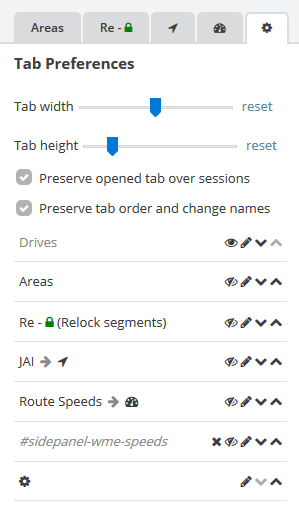
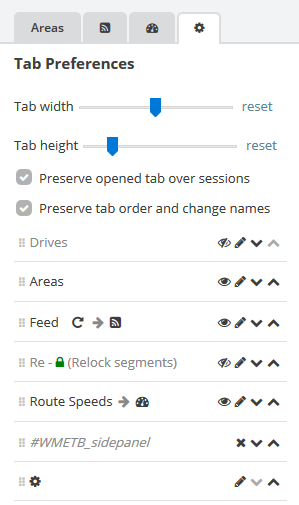
Version 1.1: The list with tab names can now be dragged around Quick tooltips for tabs with replaced names Bug fix concerning the order of the last tabs with some missing tabs

diff --git a/WME_Tab_Preferences.user.js b/WME_Tab_Preferences.user.js
@@ -7,14 +7,14 @@
 // @include     https://editor-beta.waze.com/*
 // @exclude     https://www.waze.com/user/*editor/*
[1 lines of base64/hex data omitted]
-// @version     1.0.5
+// @version     1.1
 // @grant       none
 // ==/UserScript==
 (function() {
   var tabReopened = false, // have we reopened the tab from last time?
       timesRan = 0, // variable for sanity check
       tabsSecured = -1, // Up until which index have we fully rearranged the tabs?
-      versions = ['0.1', '0.2', '1.0', '1.0.1', '1.0.2', '1.0.3', '1.0.4', '1.0.5'],
+      versions = ['0.1', '0.2', '1.0', '1.0.1', '1.0.2', '1.0.3', '1.0.4', '1.0.5', '1.1'],
       Storage = (function() {
         var hashes = (localStorage.tabprefs_hidden ? localStorage.tabprefs_hidden.split(',') : []),
             tabConfigs = (localStorage.tabprefs_configs ? JSON.parse(localStorage.tabprefs_configs) : {});
@@ -42,6 +42,25 @@
           },
           getTabConfig: function(hash) {
             return tabConfigs[hash] || {};
+          },
+          exportConfig: function() {
+            return JSON.stringify({
+              reopenTab: localStorage.tabprefs_reopenTab,
+              tabprefs_tabwidth: localStorage.tabprefs_tabwidth,
+              tabprefs_tabheight: localStorage.tabprefs_tabheight,
+              tabprefs_preserveOrder: localStorage.tabprefs_preserveOrder,
+              tabprefs_hidden: localStorage.tabprefs_hidden,
+              tabprefs_configs: localStorage.tabprefs_configs
+            });
+          },
+          importConfig: function(toImport) {
+            var config = JSON.parse(toImport);
+            var iterator = config.entries();
+            for (var entry of iterator) {
+              if (entry[0].startsWith('tabprefs_')) {
+                localStorage[entry[0]] = entry[1];
+              }
+            }
           }
         };
       })();
@@ -75,9 +94,11 @@
           reset: 'reset',
           preserve_tab: 'Preserve opened tab over sessions',
           preserve_order: 'Preserve tab order and change names',
-          remove_tab: 'Tab no longer found. Remove entry?',
+          remove_tab: 'Tab no longer available. Remove entry?',
           hide_tab: 'Change tab visibility',
-          edit_tab_name: 'Replace tab name',
+          move_up_tab: 'Move up',
+          move_down_tab: 'Move down',
+          edit_tab: 'Edit tab',
           change_icon: 'Change icon',
           set_icon: 'Set icon',
           reset_tab: 'Reset tab',
@@ -95,15 +116,29 @@
           v1_0_2: '- Fixed tab size reset buttons in Google Chrome',
           v1_0_3: '- Tab styling is applied with higher specificity, but plays nicer with other scripts as well',
           v1_0_4: '- Tab alignment issues with renamed tabs in Google Chrome fixed',
-          v1_0_5: '- Removed strict mode that was necessary for Google Chrome\n- Improved initalisation of script'
+          v1_0_5: '- Removed strict mode that was necessary for Google Chrome\n- Improved initalisation of script',
+          v1_1: '- The list with tab names can now be dragged around\n- Quick tooltips for tabs with replaced names\n- Bug fix concerning the order of the last tabs with some missing tabs'
         }
       },
       nl: {
         prefs: {
           title: 'Tabvoorkeuren',
+          tab_width: 'Tabbreedte',
+          tab_height: 'Tabhoogte',
+          reset: 'reset',
           preserve_tab: 'Geopende tab bijhouden tussen sessies',
           preserve_order: 'Volgorde van tabs bijhouden en namen veranderen',
-          remove_tab: 'Tab niet langer gevonden. Verwijderen?'
+          remove_tab: 'Tab niet langer beschikbaar. Verwijderen?',
+          hide_tab: 'Tabzichtbaarheid veranderen',
+          move_up_tab: 'Eerder zetten',
+          move_down_tab: 'Verder zetten',
+          edit_tab: 'Tab aanpassen',
+          change_icon: 'Icoon veranderen',
+          set_icon: 'Icoon instellen',
+          reset_tab: 'Tab resetten',
+          icon: 'Icoon',
+          icon_none: 'Niet ingesteld',
+          close: 'Sluiten'
         }
       }
     };
@@ -163,7 +198,6 @@
                 hash = anchor.hash;
             // Also start observing here for changes to tab selection
             selectionObserver.observe(node, { attributes: true, attributeFilter: ['class'] });
-            console.log('initTabListener', hash, node);
             if (anchor.title) {
               $(anchor).tooltip();
             }
@@ -233,8 +267,7 @@
     formGroup.appendChild(tabOrderPanel);
     $(tabOrderPanel).sortable({
       forcePlaceholderSize: true,
-      placeholderClass: 'result',
-      handle: '.handle'
+      placeholderClass: 'result'
     }).bind('sortupdate', function(e, ui) {
       var order = localStorage.tabprefs_preserveOrder.split(',');
       order.splice(ui.elementIndex, 0, order.splice(ui.oldElementIndex, 1)[0]);
@@ -314,8 +347,7 @@
     }
     var tab = document.querySelector('#user-tabs .nav-tabs li a[href$="'+localStorage.tabprefs_reopenTab+'"]');
     if (!tabReopened && tab) {
-      log("Tab to reopen found, reopening now");
-      var clickEvent = new MouseEvent("click", {
+      var clickEvent = new MouseEvent('click', {
         bubbles: true,
         cancelable: true,
         view: window
@@ -356,6 +388,7 @@
       var tabsMissing = 0;
       for (var i = tabsSecured+1; i < hashes.length; i++) {
         var tabAnchor = navTabs.querySelector('a[href$="'+hashes[i]+'"]');
+        
         if (!tabAnchor) {
           tabsMissing++;
           continue;
@@ -364,7 +397,7 @@
         if (tabIndex === i && tabsSecured === tabIndex-1) {
           tabsSecured++;
         }
-        if (tabAnchor && tabIndex !== i - tabsMissing && i < navTabs.children.length) {
+        if (tabAnchor && tabIndex !== i - tabsMissing && i - tabsMissing < navTabs.children.length) {
           navTabs.insertBefore(tabAnchor.parentNode, navTabs.children[i - tabsMissing]);
           if (tabsSecured === i-1) {
             tabsSecured++;
@@ -394,6 +427,11 @@
           for (var j = 0; j < anchor.childNodes.length; j++) { // Bleh, nodelist doesn't support for each
             children.push(anchor.childNodes[j]);
           }
+          anchor.originalTitle = anchor.title || anchor.dataset.originalTitle || anchor.parentNode.title || anchor.parentNode.dataset.originalTitle;
+          if (!anchor.title) {
+            anchor.title = anchor.textContent.trim();
+          }
+          $(anchor).tooltip();
           anchor.originalChildren = children;
         }
         if (config.icon) {
@@ -406,18 +444,13 @@
               log('Unsupported fontFamily found: ' + config.icon.fontFamily);
           }
           span.appendChild(document.createTextNode(String.fromCharCode(config.icon.charCode)));
-          console.log('renameTabs', anchor.title, anchor.hash);
-          if (!anchor.title) {
-            anchor.title = anchor.textContent.trim();
-          }
-          console.log('renameTabs #2', anchor.title, anchor.hash);
-          $(anchor).tooltip();
           while (anchor.firstChild) {
             anchor.removeChild(anchor.firstChild);
           }
           anchor.appendChild(span);
         }
       }
+      // Icon replacement has been removed
       if (!config.icon && anchor.originalChildren) {
         while (anchor.firstChild) {
           anchor.removeChild(anchor.firstChild);
@@ -426,6 +459,15 @@
           anchor.appendChild(node);
         });
         delete anchor.originalChildren;
+        if (anchor.originalTitle) {
+          anchor.title = anchor.originalTitle;
+          $(anchor).tooltip();
+        } else {
+          anchor.removeAttribute('title');
+          $(anchor).tooltip('destroy');
+          delete anchor.dataset.originalTitle;
+        }
+        delete anchor.originalTitle;
       }
     }
   }
@@ -445,11 +487,11 @@
       var item = document.createElement('li'),
           name = document.createElement('span'),
           buttons = document.createElement('div'),
-          moveUp = document.createElement('span'),
-          moveDown = document.createElement('span'),
-          remove = document.createElement('span'),
-          hide = document.createElement('span'),
-          edit = document.createElement('span'),
+          moveUp = createIconButton('?', I18n.t('tabpreferences.prefs.move_up_tab')),
+          moveDown = createIconButton('?', I18n.t('tabpreferences.prefs.move_down_tab')),
+          remove = createIconButton('?', I18n.t('tabpreferences.prefs.remove_tab')),
+          hide = createIconButton((Storage.isTabVisible(hash) ? eyeIcon : eyeSlashIcon), I18n.t('tabpreferences.prefs.hide_tab')),
+          edit = createIconButton('?', I18n.t('tabpreferences.prefs.edit_tab')),
           anchor = document.querySelector('#user-tabs .nav-tabs li a[href$="'+hash+'"]'),
           tabConfig = {};
       if (anchor) {
@@ -457,56 +499,48 @@
       }
       // Add action buttons
       if (!anchor) {
-        remove.className = 'icon-remove fa fa-remove';
-        remove.style.cursor = 'pointer';
-        remove.title = I18n.t('tabpreferences.prefs.remove_tab');
         remove.addEventListener('click', function() {
           obj.splice(index, 1);
           localStorage.tabprefs_preserveOrder = obj.join();
           refreshTabPanel();
         });
         buttons.appendChild(remove);
-      }
-      if (hash !== '#sidepanel-prefs') { // Prevent the preferences tab from being hidden and getting locked out
-        hide.className = 'icon- fa';
-        hide.innerHTML = (Storage.isTabVisible(hash) ? eyeSlashIcon : eyeIcon);
-        hide.style.cursor = 'pointer';
-        hide.style.marginLeft = '3px';
-        hide.title = I18n.t('tabpreferences.prefs.hide_tab');
-        hide.addEventListener('click', function() {
-          if (this.innerHTML === eyeSlashIcon) {
-            this.innerHTML = eyeIcon;
-            anchor.parentNode.style.display = 'none';
-            Storage.setTabVisibility(hash, false);
-          } else {
-            this.innerHTML = eyeSlashIcon;
-            anchor.parentNode.style.display = 'block';
-            Storage.setTabVisibility(hash, true);
-          }
-          refreshTabPanel();
-        });
-        buttons.appendChild(hide);
-      }
-      edit.className = 'icon-pencil fa fa-pencil';
-      edit.style.cursor = 'pointer';
-      edit.style.marginLeft = '3px';
-      edit.title = I18n.t('tabpreferences.prefs.edit_tab_name');
-      edit.addEventListener('click', function() {
-        if (!item.details) {
-          createTabConfigPane(item, hash);
-        } else {
-          item.removeChild(item.details);
-          item.details = false;
+      } else {
+        if (hash !== '#sidepanel-prefs') { // Prevent the preferences tab from being hidden and getting locked out
+          hide.addEventListener('click', function() {
+            if (Storage.isTabVisible(hash)) {
+              this.innerHTML = eyeSlashIcon;
+              anchor.parentNode.style.display = 'none';
+              Storage.setTabVisibility(hash, false);
+            } else {
+              this.innerHTML = eyeIcon;
+              anchor.parentNode.style.display = 'block';
+              Storage.setTabVisibility(hash, true);
+            }
+            refreshTabPanel();
+          });
+          hide.addEventListener('mouseenter', function() {
+            this.innerHTML = (Storage.isTabVisible(hash) ? eyeSlashIcon : eyeIcon);
+          });
+          hide.addEventListener('mouseleave', function() {
+            this.innerHTML = (Storage.isTabVisible(hash) ? eyeIcon : eyeSlashIcon);
+          });
+          buttons.appendChild(hide);
         }
-      });
-      buttons.appendChild(edit);
-      moveDown.className = 'icon-chevron-down fa fa-chevron-down';
-      moveDown.style.marginLeft = '3px';
+        edit.addEventListener('click', function() {
+          if (!item.details) {
+            createTabConfigPane(item, hash);
+          } else {
+            item.removeChild(item.details);
+            item.details = false;
+          }
+        });
+        buttons.appendChild(edit);
+      }
       if (index === order.length - 1) {
         moveDown.style.cursor = 'default';
         moveDown.style.color = '#aaa';
       } else {
-        moveDown.style.cursor = 'pointer';
         moveDown.addEventListener('click', function() {
           obj.splice(index+1, 0, obj.splice(index, 1)[0]);
           localStorage.tabprefs_preserveOrder = obj.join();
@@ -515,13 +549,10 @@
         });
       }
       buttons.appendChild(moveDown);
-      moveUp.className = 'icon-chevron-up fa fa-chevron-up';
-      moveUp.style.marginLeft = '3px';
       if (index === 0) {
         moveUp.style.color = '#aaa';
         moveUp.style.cursor = 'default';
       } else {
-        moveUp.style.cursor = 'pointer';
         moveUp.addEventListener('click', function() {
           obj.splice(index-1, 0, obj.splice(index, 1)[0]);
           localStorage.tabprefs_preserveOrder = obj.join();
@@ -533,32 +564,40 @@
       buttons.style.float = 'right';
       item.className = 'result';
       item.appendChild(buttons);
-      name.className = 'handle';
+      var handle = document.createElement('span');
+      handle.style.fontFamily = 'FontAwesome';
+      handle.style.letterSpacing = '1px';
+      handle.style.color = '#c2c2c2';
+      handle.style.cursor = 'move';
+      handle.style.fontSize = '11px';
+      handle.appendChild(document.createTextNode('?? '));
+      item.appendChild(handle);
       name.style.cursor = 'default';
       // Add name and replacement
       if (anchor) {
-        var title = anchor.title;
-        if (!title) {
-          title = anchor.parentNode.title;
-        }
         if (anchor.originalChildren) {
+          var title = anchor.originalTitle;
           var arrow = document.createElement('span');
-          arrow.className = 'fa icon-';
+          arrow.style.fontFamily = 'FontAwesome';
           arrow.style.color = '#888';
           arrow.style.margin = '0 6px';
           arrow.appendChild(document.createTextNode(String.fromCharCode(61537)));
           anchor.originalChildren.forEach(function(node) {
             name.appendChild(node.cloneNode(true));
           });
+          if (title) {
+            name.appendChild(document.createTextNode(' (' + title + ')'));
+          }
           name.appendChild(arrow);
           for (var i = 0; i < anchor.childNodes.length; i++) {
             name.appendChild(anchor.childNodes[i].cloneNode(true));
           }
         } else {
           name.innerHTML = anchor.innerHTML;
-        }
-        if (title) {
-          name.appendChild(document.createTextNode(' (' + title + ')'));
+          var title = anchor.title || anchor.dataset.originalTitle || anchor.parentNode.title || anchor.parentNode.dataset.originalTitle;
+          if (title) {
+            name.appendChild(document.createTextNode(' (' + title + ')'));
+          }
         }
         if (!Storage.isTabVisible(hash)) {
           name.style.color = '#888';
@@ -568,18 +607,27 @@
         name.style.fontStyle = 'italic';
         name.appendChild(document.createTextNode(hash));
       }
-      var handle = document.createElement('span');
-      handle.style.fontFamily = 'FontAwesome';
-      handle.style.letterSpacing = '1px';
-      handle.style.color = '#c2c2c2';
-      handle.style.cursor = 'move';
-      handle.style.fontSize = '11px';
-      handle.appendChild(document.createTextNode('?? '));
-      name.insertBefore(handle, name.firstChild);
       item.appendChild(name);
       tabPanel.appendChild(item);
     });
     $(tabPanel).sortable();
+  }
+  
+  function createIconButton(icon, title) {
+    var button = document.createElement('button');
+    button.style.fontFamily = 'FontAwesome';
+    button.style.border = 'none';
+    button.style.background = 'none';
+    button.style.padding = '0 2px';
+    button.style.cursor = 'pointer';
+    button.style.height = 'auto';
+    button.style.outline = 'none';
+    button.appendChild(document.createTextNode(icon));
+    if (title) {
+      button.title = title;
+      $(button).tooltip();
+    }
+    return button;
   }
 
   function checkVersion() {
@@ -629,7 +677,7 @@
         // FontAwesome: symbols start at 'F000' (= 61440) and end at 'F295' in version 4.5 of FontAwesome (Waze uses 4.4)
         for (var i = 61440; i <= 62101; i++) {
           var icon = document.createElement('span');
-          icon.className = 'fa icon-';
+          icon.style.fontFamily = 'FontAwesome';
           icon.appendChild(document.createTextNode(String.fromCharCode(i)));
           icon.style.cursor = 'pointer';
           icon.dataset.charCode = i;
